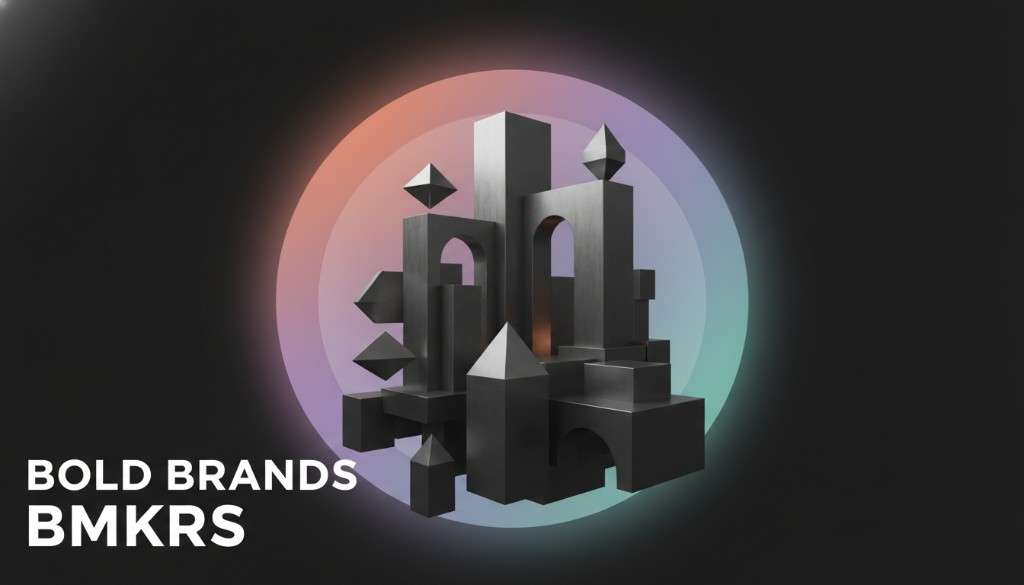
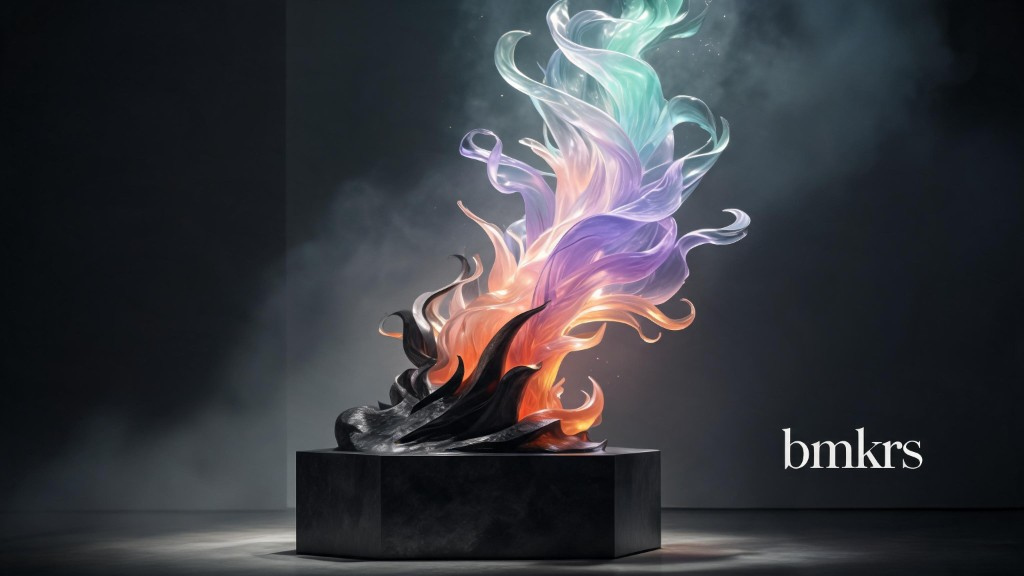
Fix Sanity overriding markdown journal and fallback site content.
Add new marketing imagery across key pages and merge CMS data with fallbacks so articles, pricing, projects, and about copy render correctly.

diff --git a/web/src/lib/content/index.ts b/web/src/lib/content/index.ts
@@ -130,12 +130,13 @@ export async function getServices(): Promise<Service[]> {
 
 export async function getProjects(): Promise<Project[]> {
   const caseStudies = await fetchSanity<Project[]>(caseStudiesQuery);
-  if (caseStudies?.length) {
-    return caseStudies.map(normalizeProject);
-  }
   const legacy = await fetchSanity<Project[]>(projectsQuery);
-  const list = legacy?.length ? legacy : fallbackProjects;
-  return list.map(normalizeProject);
+  const sanityList = caseStudies?.length ? caseStudies : (legacy ?? []);
+  const bySlug = new Map(fallbackProjects.map((p) => [p.slug, normalizeProject(p)]));
+  for (const p of sanityList) {
+    bySlug.set(p.slug, normalizeProject(p));
+  }
+  return [...bySlug.values()].sort((a, b) => a.order - b.order);
 }
 
 export async function getFeaturedProjects(): Promise<Project[]> {
@@ -152,9 +153,24 @@ export async function getFeaturedProjects(): Promise<Project[]> {
   return [...picked, ...rest].slice(0, 4);
 }
 
+function mergeProducts(sanity: Product[] | null | undefined): Product[] {
+  const bySlug = new Map(fallbackProducts.map((p) => [p.slug, p]));
+  for (const p of sanity ?? []) {
+    const fb = bySlug.get(p.slug);
+    bySlug.set(p.slug, {
+      ...fb,
+      ...p,
+      priceFrom: p.priceFrom ?? fb?.priceFrom,
+      shape: p.shape ?? fb?.shape,
+      priceNote: p.priceNote ?? fb?.priceNote,
+    });
+  }
+  return [...bySlug.values()].sort((a, b) => (a.order ?? 0) - (b.order ?? 0));
+}
+
 export async function getProducts(): Promise<Product[]> {
   const data = await fetchSanity<Product[]>(allProductsQuery);
-  return data?.length ? data : fallbackProducts;
+  return mergeProducts(data);
 }
 
 export async function getDisciplines(): Promise<Discipline[]> {
@@ -165,13 +181,24 @@ export async function getDisciplines(): Promise<Discipline[]> {
 
 export async function getMotionTiers(): Promise<Product[]> {
   const data = await fetchSanity<Product[]>(motionTiersQuery);
-  if (data?.length) return data;
-  return fallbackProducts.filter((p) => p.tier === "grow");
+  const products = mergeProducts(data);
+  return products.filter((p) => p.tier === "grow");
 }
 
 export async function getAboutPage(): Promise<AboutPageContent> {
   const data = await fetchSanity<AboutPageContent>(aboutPageQuery);
-  return data ?? fallbackAboutPage;
+  return {
+    ...fallbackAboutPage,
+    ...(data ?? {}),
+    founder: fallbackAboutPage.founder,
+    teamIntro: fallbackAboutPage.teamIntro,
+    teamClosing: fallbackAboutPage.teamClosing,
+    headline: fallbackAboutPage.headline,
+    intro: fallbackAboutPage.intro,
+    longGame: fallbackAboutPage.longGame,
+    ethos: fallbackAboutPage.ethos,
+    beliefs: data?.beliefs?.length ? data.beliefs : fallbackAboutPage.beliefs,
+  };
 }
 
 export async function getMotionContent(): Promise<MotionContent> {
@@ -190,9 +217,8 @@ export async function getProject(slug: string): Promise<Project | null> {
 }
 
 export async function getCaseStudySlugs(): Promise<string[]> {
-  const slugs = await fetchSanity<string[]>(caseStudySlugsQuery);
-  if (slugs?.length) return slugs;
-  return fallbackProjects.map((p) => p.slug);
+  const projects = await getProjects();
+  return projects.map((p) => p.slug);
 }
 
 export async function getHomeTestimonials(): Promise<Testimonial[]> {
@@ -227,6 +253,9 @@ export async function getTeamMembers(): Promise<TeamMember[]> {
 
 function allFallbackJournalPosts(): JournalPost[] {
   const fromMarkdown = getMarkdownJournalPosts();
+  if (fromMarkdown.length > 0) {
+    return fromMarkdown.map(mergePostCover);
+  }
   const mdSlugs = new Set(fromMarkdown.map((p) => p.slug));
   const legacy = legacyJournalPosts.filter(
     (p) => !mdSlugs.has(p.slug) && !journalSlugRedirects[p.slug],
@@ -234,8 +263,32 @@ function allFallbackJournalPosts(): JournalPost[] {
   return [...fromMarkdown, ...legacy].map(mergePostCover);
 }
 
-function publishedJournalPosts(): JournalPost[] {
-  return filterPublishedPosts(allFallbackJournalPosts());
+function buildJournalIndex(
+  sanityFeatured: JournalPost | null,
+  sanityPosts: JournalPost[],
+): { featured: JournalPost | null; posts: JournalPost[] } {
+  const bySlug = new Map<string, JournalPost>();
+  const markdownPack = getMarkdownJournalPosts();
+
+  if (markdownPack.length === 0) {
+    if (sanityFeatured) {
+      bySlug.set(sanityFeatured.slug, mergePostCover(sanityFeatured));
+    }
+    for (const p of sanityPosts) {
+      bySlug.set(p.slug, mergePostCover(p));
+    }
+  }
+  for (const p of allFallbackJournalPosts()) {
+    bySlug.set(p.slug, p);
+  }
+
+  const published = filterPublishedPosts([...bySlug.values()]).sort((a, b) =>
+    b.publishedAt.localeCompare(a.publishedAt),
+  );
+
+  const featured = published.find((p) => p.featured) ?? published[0] ?? null;
+  const posts = published.filter((p) => p.slug !== featured?.slug);
+  return { featured, posts };
 }
 
 export async function getJournalIndex(): Promise<{
@@ -245,18 +298,7 @@ export async function getJournalIndex(): Promise<{
   const data = await fetchSanity<{ featured: JournalPost | null; posts: JournalPost[] }>(
     journalIndexQuery,
   );
-  if (data?.posts?.length || data?.featured) {
-    const featured = data.featured ? mergePostCover(data.featured) : null;
-    const posts = (data.posts ?? []).map(mergePostCover);
-    return {
-      featured: featured && isJournalPublished(featured.publishedAt) ? featured : null,
-      posts: filterPublishedPosts(posts),
-    };
-  }
-  const published = publishedJournalPosts();
-  const featured = published.find((p) => p.featured) ?? null;
-  const posts = published.filter((p) => !p.featured);
-  return { featured, posts };
+  return buildJournalIndex(data?.featured ?? null, data?.posts ?? []);
 }
 
 export async function getPost(slug: string): Promise<JournalPost | null> {
@@ -265,21 +307,29 @@ export async function getPost(slug: string): Promise<JournalPost | null> {
     return getPost(redirect);
   }
 
+  const fb = allFallbackJournalPosts().find((p) => p.slug === slug);
+  if (fb && isJournalPublished(fb.publishedAt)) {
+    return mergePostCover(fb);
+  }
+
   const data = await fetchSanity<JournalPost>(postBySlugQuery, { slug });
   if (data) {
     const merged = mergePostCover(data);
     return isJournalPublished(merged.publishedAt) ? merged : null;
   }
 
-  const fb = allFallbackJournalPosts().find((p) => p.slug === slug);
-  if (!fb || !isJournalPublished(fb.publishedAt)) return null;
-  return mergePostCover(fb);
+  return null;
 }
 
 export async function getPostSlugs(): Promise<string[]> {
-  const slugs = await fetchSanity<string[]>(postSlugsQuery);
-  if (slugs?.length) return slugs;
-  return publishedJournalPosts().map((p) => p.slug);
+  const { featured, posts } = await getJournalIndex();
+  const slugs = new Set<string>();
+  if (featured) slugs.add(featured.slug);
+  for (const p of posts) slugs.add(p.slug);
+  for (const p of allFallbackJournalPosts()) {
+    if (isJournalPublished(p.publishedAt)) slugs.add(p.slug);
+  }
+  return [...slugs];
 }
 
 function normalizeProject(project: Project): Project {

diff --git a/web/src/lib/content/image-fallbacks.ts b/web/src/lib/content/image-fallbacks.ts
@@ -67,31 +67,39 @@ export const homeMotionStrip = motionStripImages;
 
 export const pageHeroImages = {
   services: {
-    src: marketingImages.digitalMedia,
-    alt: "bmkrs digital media — brand, product, pr, disciplines",
+    src: marketingImages.digitalMediaDevices,
+    alt: "bmkrs across desktop, tablet and mobile",
   },
-  about: { src: marketingImages.studioBrand, alt: "bmkrs creative studio" },
-  work: { src: marketingImages.filmProduction, alt: "campaign and film production" },
+  about: { src: marketingImages.teamCollaboration, alt: "bmkrs team collaborating in the studio" },
+  work: { src: marketingImages.identityPackaging, alt: "brand identity and packaging" },
   motion: { src: marketingImages.contentPlatform, alt: "content and platform work" },
   journal: { src: marketingImages.brandArchitecture, alt: "brand strategy and thinking" },
   contact: { src: marketingImages.creativeDesk, alt: "creative workspace" },
 } as const;
 
 export const aboutStoryImage = {
-  src: marketingImages.brandGuidelines,
-  alt: "brand identity and guidelines",
+  src: marketingImages.studioBrand,
+  alt: "bmkrs creative studio",
 };
 
 export const aboutBeliefsImage = {
+  src: marketingImages.identityPackaging,
+  alt: "brand identity across touchpoints",
+};
+
+export const aboutTeamImage = {
+  src: marketingImages.teamCollaboration,
+  alt: "partner collaborators at work in the studio",
+};
+
+export const homePositioningImage = {
   src: marketingImages.brandEcosystem,
   alt: "brand building ecosystem",
 };
 
-export const homePositioningImage = aboutBeliefsImage;
-
 export const homeWhoWeWorkWithImage = {
-  src: marketingImages.filmProduction,
-  alt: "ambitious brand work",
+  src: marketingImages.teamCollaboration,
+  alt: "founders and product teams in the studio",
 };
 
 export const productImageBySlug: Record<string, { src: string; alt: string }> = {

diff --git a/web/src/app/(site)/about/page.tsx b/web/src/app/(site)/about/page.tsx
@@ -5,7 +5,7 @@ import { PageHeroSplit } from "@/components/bmkrs/PageHeroSplit";
 import { Reveal } from "@/components/bmkrs/Reveal";
 import { SectionImage } from "@/components/bmkrs/SectionImage";
 import { getAboutPage, getTeamMembers } from "@/lib/content";
-import { aboutBeliefsImage, pageHeroImages } from "@/lib/content/image-fallbacks";
+import { aboutBeliefsImage, aboutTeamImage, pageHeroImages } from "@/lib/content/image-fallbacks";
 import { pageMetadata } from "@/lib/seo";
 import { personSchema } from "@/lib/structured-data";
 
@@ -82,13 +82,18 @@ export default async function AboutPage() {
       ) : null}
 
       <section className="section-pad">
+        <div className="wrap section prose-with-media items-start">
+          <div>
+            <p className="eyebrow">the team</p>
+            <h2 className="display mt-4 text-[clamp(2rem,5vw,3.5rem)] font-bold">
+              a partner team, not a payroll.
+            </h2>
+            <p className="lead mt-6 max-w-[560px]">{about.teamIntro ?? about.whoWeAre}</p>
+          </div>
+          <SectionImage src={aboutTeamImage.src} alt={aboutTeamImage.alt} aspect="wide" />
+        </div>
         <div className="wrap section">
-          <p className="eyebrow">the team</p>
-          <h2 className="display mt-4 text-[clamp(2rem,5vw,3.5rem)] font-bold">
-            a partner team, not a payroll.
-          </h2>
-          <p className="lead mt-6 max-w-[560px]">{about.teamIntro ?? about.whoWeAre}</p>
-          <div className="team-grid mt-12">
+          <div className="team-grid mt-4">
             {team.map((member) => (
               <div key={member.name} className="team-card" id={member.slug}>
                 <div className="team-photo">

diff --git a/web/src/lib/marketing-assets.ts b/web/src/lib/marketing-assets.ts
@@ -1,6 +1,9 @@
 /** Static marketing imagery (committed under /public/images/marketing). */
 export const marketingImages = {
   heroSculpture: "/images/marketing/hero-sculpture.png",
+  teamCollaboration: "/images/marketing/team-collaboration.png",
+  digitalMediaDevices: "/images/marketing/digital-media-devices.png",
+  identityPackaging: "/images/marketing/identity-packaging.png",
   studioBrand: "/images/marketing/studio-brand.png",
   brandEcosystem: "/images/marketing/brand-ecosystem.png",
   digitalMedia: "/images/marketing/digital-media.png",

diff --git a/web/scripts/compile-journal.js b/web/scripts/compile-journal.js
@@ -27,6 +27,7 @@ const AUTHOR_DISCIPLINE = {
 const PUBLISH_SCHEDULE = {
   "better-told-brand-wins": "2026-06-03",
   "what-a-brand-strategy-agency-does": "2026-06-03",
+  "weak-brand-paid-growth": "2026-06-03",
   "choosing-a-rebrand-agency-uk": "2026-06-10",
   "startup-pr-without-retainer": "2026-06-10",
   "brand-identity-for-startups": "2026-06-17",

diff --git a/web/src/lib/content/journal-publish.ts b/web/src/lib/content/journal-publish.ts
@@ -2,6 +2,7 @@
 export const journalPublishSchedule: Record<string, string> = {
   "better-told-brand-wins": "2026-06-03",
   "what-a-brand-strategy-agency-does": "2026-06-03",
+  "weak-brand-paid-growth": "2026-06-03",
   "choosing-a-rebrand-agency-uk": "2026-06-10",
   "startup-pr-without-retainer": "2026-06-10",
   "brand-identity-for-startups": "2026-06-17",